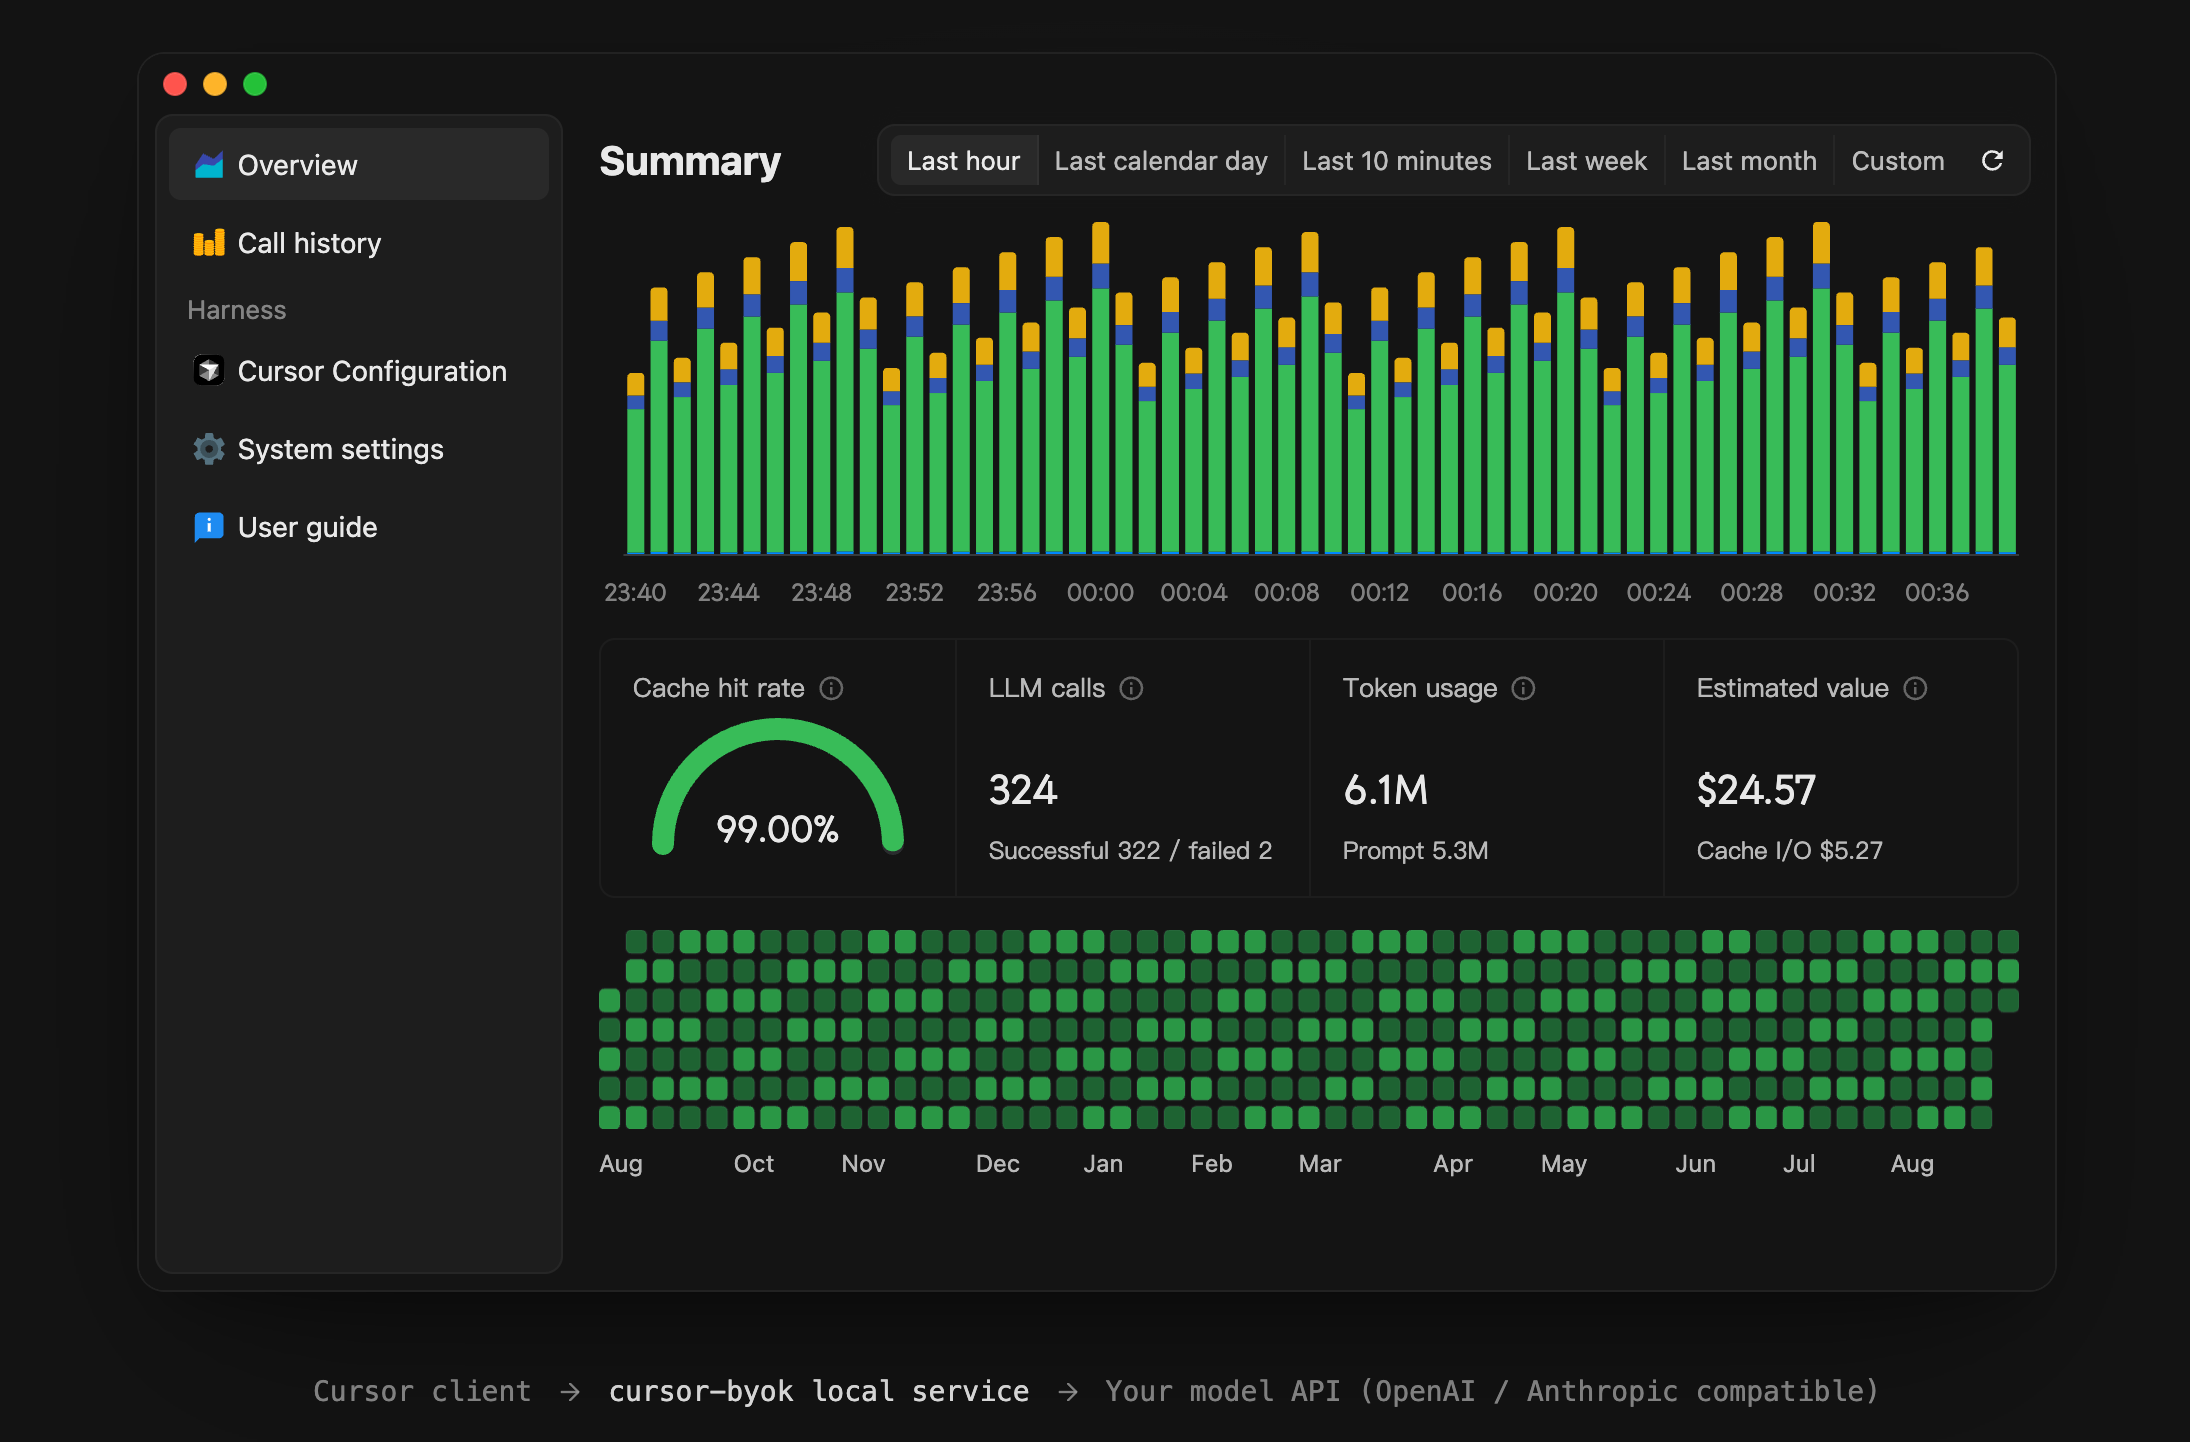
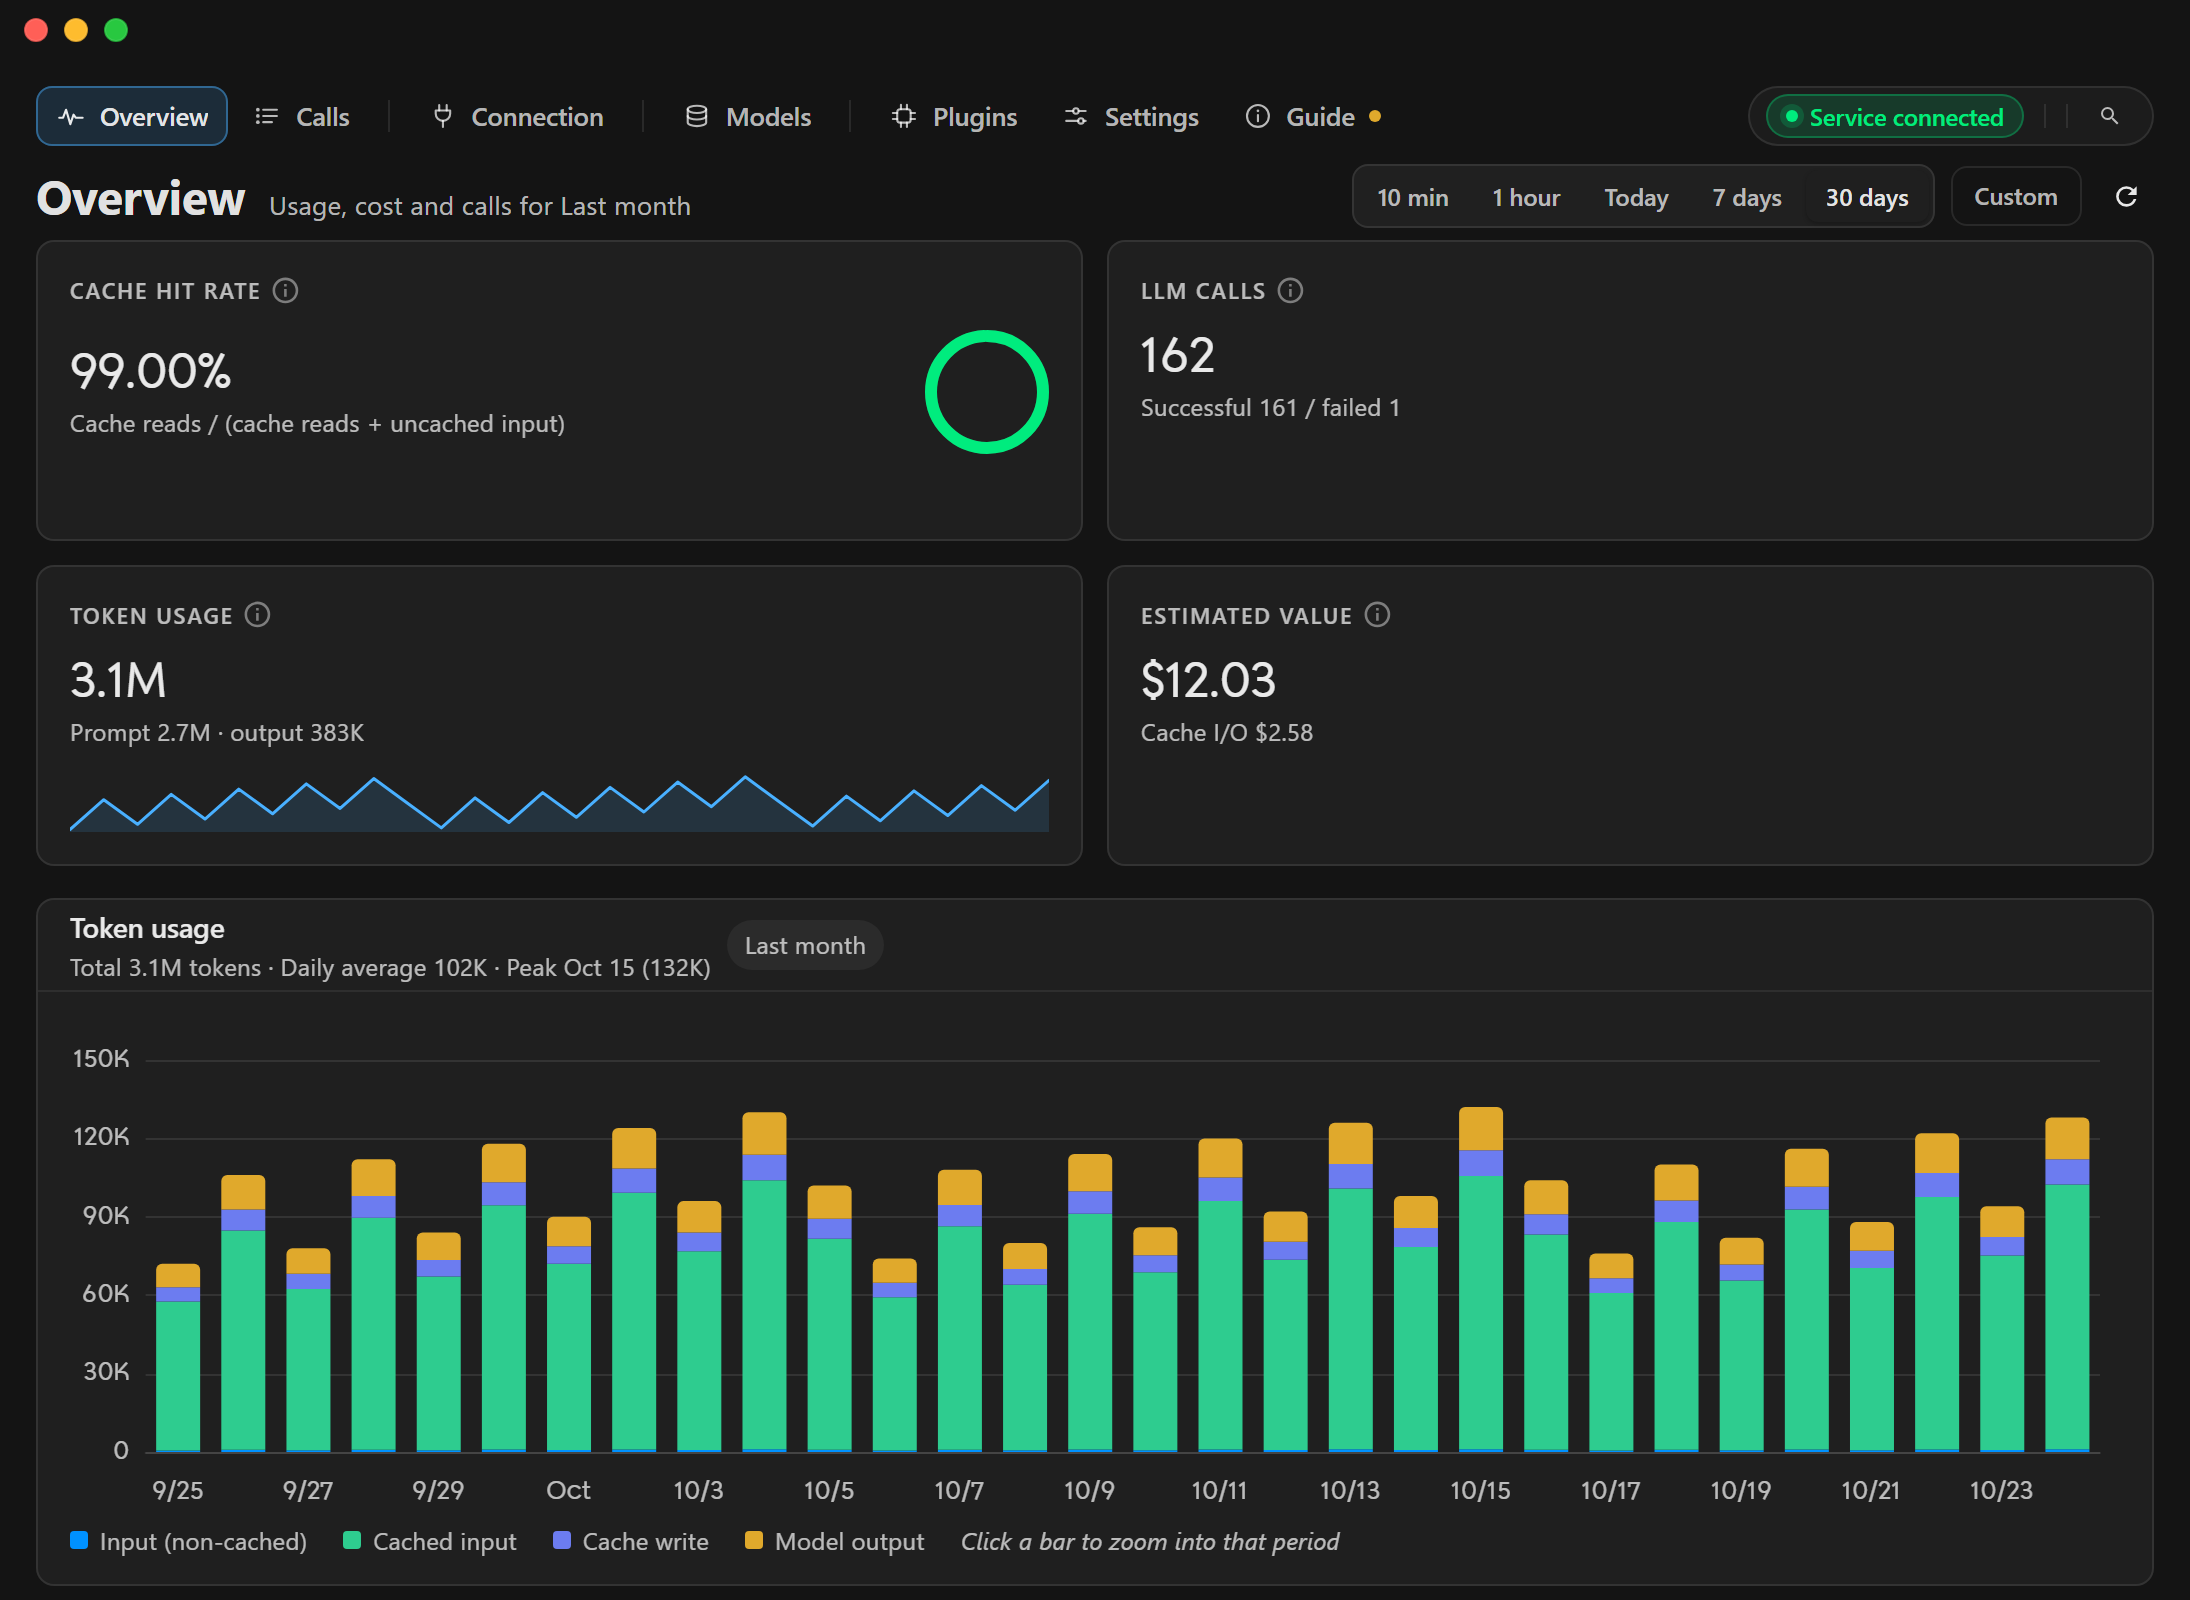
docs(readme): 更新产品首页与模型库截图
使用当前演示数据重新生成 README 主界面和模型库图片；演示模型补上价格以展示价值估算。

diff --git a/apps/desktop/src/demo/api.ts b/apps/desktop/src/demo/api.ts
@@ -174,7 +174,18 @@ let devinSettings: DevinSettings = {
 let devinHostStatus: DevinHostPatchStatus | null = null;
 let devinHostReceipt: DevinHostPatchReceipt | null = null;
 
-let pricingSettings: TokenPricingSettings = { models: {} };
+const demoTokenPrice = {
+  input_per_million: 3,
+  output_per_million: 15,
+  cache_read_per_million: 0.3,
+  cache_write_per_million: 3.75,
+};
+const demoCurrency = { fixed: demoTokenPrice, peak: demoTokenPrice, off_peak: demoTokenPrice };
+let pricingSettings: TokenPricingSettings = {
+  models: Object.fromEntries(
+    models.map((model) => [model.model_hash, { mode: "fixed", cny: demoCurrency, usd: demoCurrency }]),
+  ),
+};
 let detailed = true;
 let portSettings = { proxy_port: 0, service_port: 0 };
 let desktopSettings: DesktopSettings = { silent_start: false, show_dock_icon: true, developer_mode: false };
